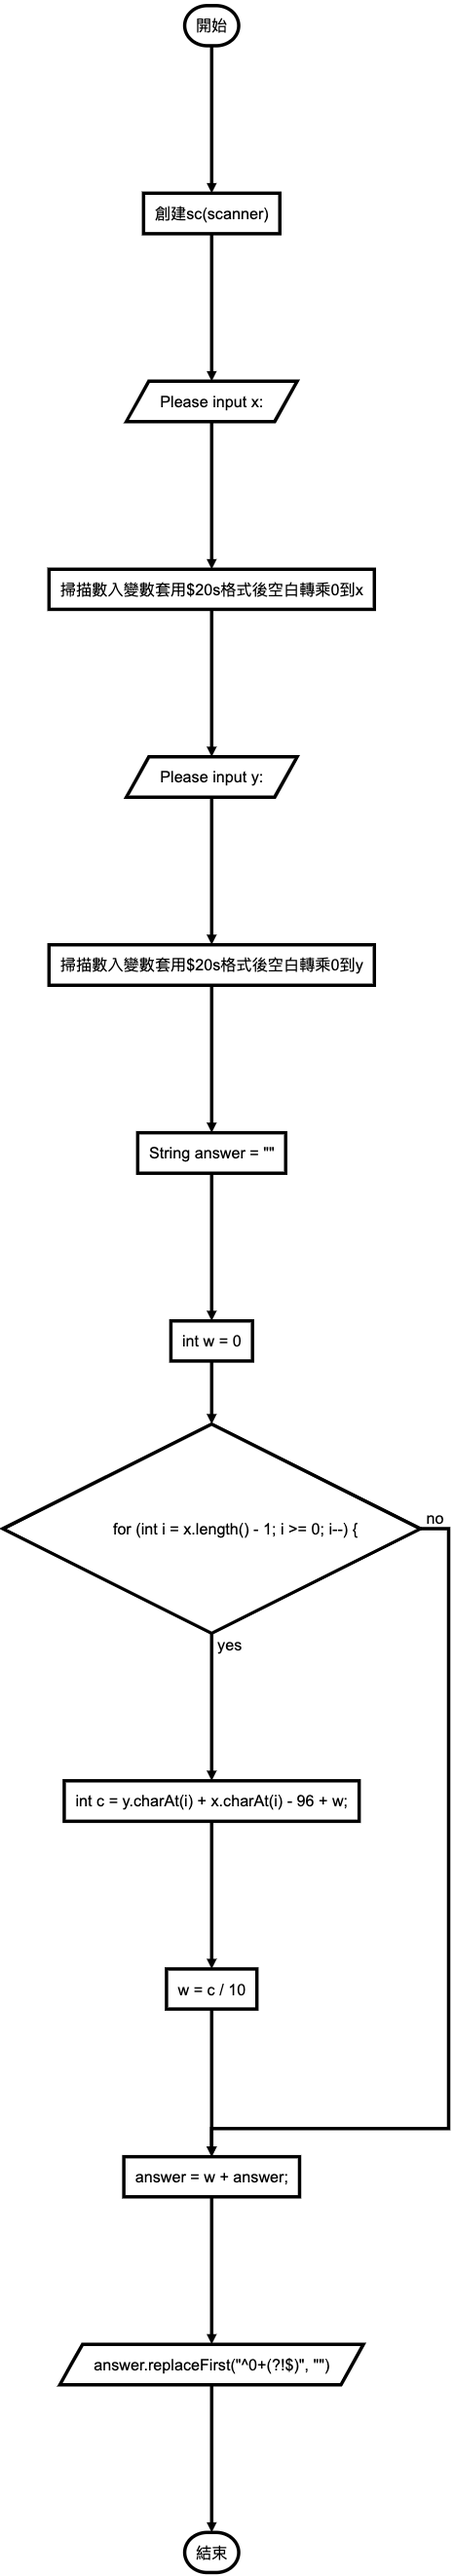
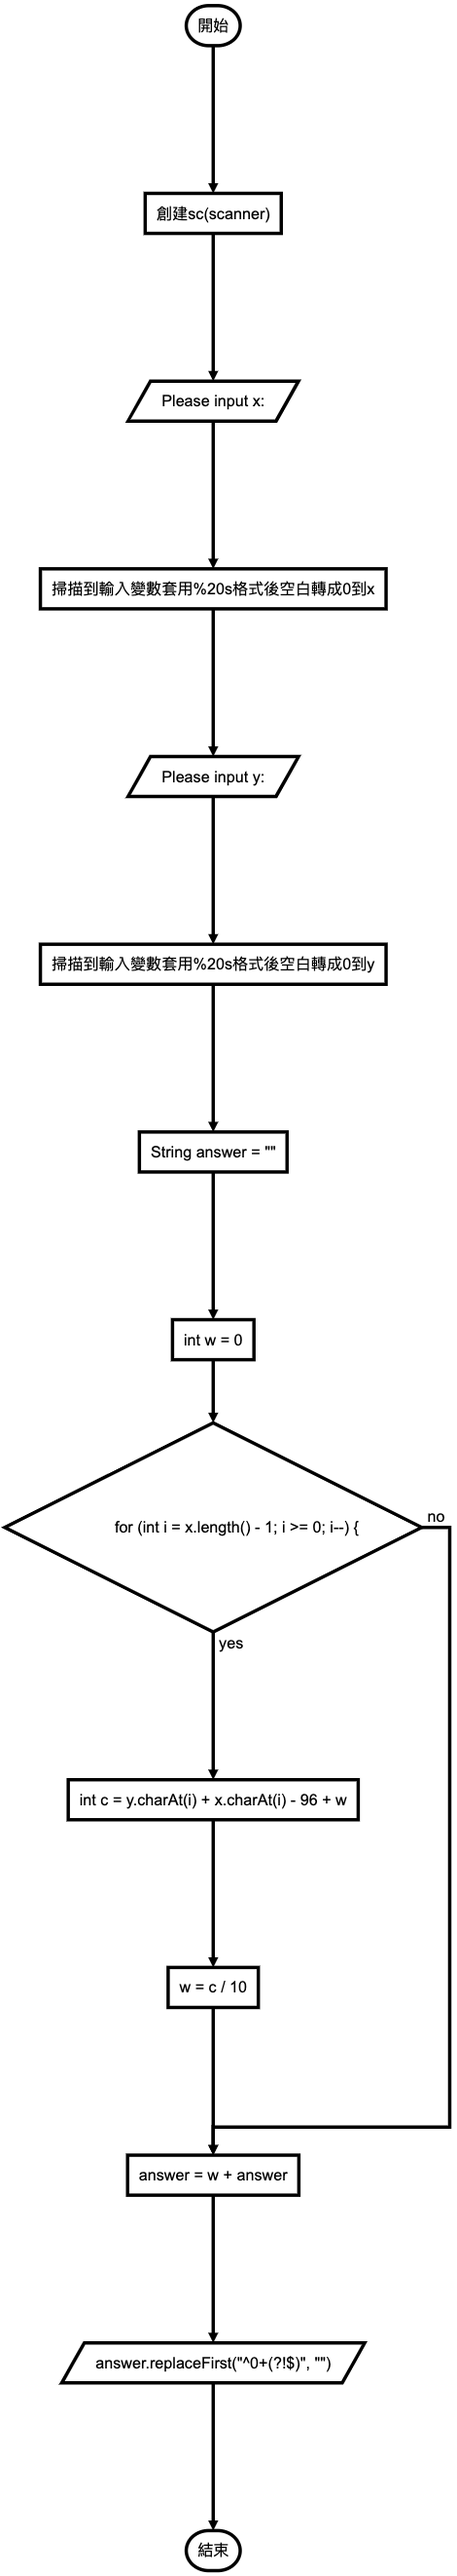
homework_8

diff --git a/school/java/homework_82.java b/school/java/homework_82.java
@@ -1,0 +1,37 @@
+/*
+filename:homework_8
+function:try catch finally
+
+author:taeyeonssudpate
+time:2020/12/21
+*/
+
+import java.util.Scanner;
+
+public class homework_82 {
+
+    public static void main(String[] args) {
+        Scanner sc = new Scanner(System.in);
+        int[] x = new int[3];
+        int[] y = new int[3];
+        System.out.println("數入x,y陣列值(3)");
+        for (int i = 0; i < 3; i++) {
+            System.out.printf("Please input x[%d]: ", i);
+            x[i] = sc.nextInt();
+            System.out.printf("Please input y[%d]: ", i);
+            y[i] = sc.nextInt();
+        }
+        System.out.println("執行四次(嘗試超出陣列範圍)");
+        for (int i = 0; i <= 3; i++) {
+            try {
+                System.out.printf("x[%d]/y[%d] = ", i, i);
+                System.out.printf("%d/%d = ", x[i], y[i]);
+                System.out.println(x[i] / y[i]);
+            } catch (ArrayIndexOutOfBoundsException e) {
+                System.out.println("超出陣列");
+            } catch (ArithmeticException e) {
+                System.out.println("除數不能為0");
+            }
+        }
+    }
+}

diff --git a/school/java/homework_81.java b/school/java/homework_81.java
@@ -1,0 +1,30 @@
+/*
+filename:homework_8
+function:try catch finally
+
+author:taeyeonssudpate
+time:2020/12/21
+*/
+
+import java.util.Scanner;
+
+public class homework_81 {
+
+    public static void main(String[] args) {
+        Scanner sc = new Scanner(System.in);
+        int[] x = { 10, 20, 30 };
+        int[] y = { 5, 10, 0 };
+        System.out.println("執行四次(嘗試超出陣列範圍)");
+        for (int i = 0; i <= 3; i++) {
+            try {
+                System.out.printf("x[%d]/y[%d] = ", i, i);
+                System.out.printf("%d/%d = ", x[i], y[i]);
+                System.out.println(x[i] / y[i]);
+            } catch (ArrayIndexOutOfBoundsException e) {
+                System.out.println("超出陣列");
+            } catch (ArithmeticException e) {
+                System.out.println("除數不能為0");
+            }
+        }
+    }
+}

diff --git a/school/java/homework_7.md b/school/java/homework_7.md
@@ -1,6 +1,6 @@
 # 我就爛 亂寫的 感覺就錯很多 #<br>
 ## 僅供參考 ##<br>
-資訊工程係  Java 程式設計  第六次作業<br>
+資訊工程係  Java 程式設計  第七次作業<br>
 班級：資工二乙 學號：B08170516   姓名：李知恩<br>
 
 題目：大數運算之加法運算<br>
@@ -16,16 +16,16 @@
 start=>start: 開始
 13=>operation: 創建sc(scanner)
 14=>inputoutput: Please input x:
-15=>operation: 掃描數入變數套用$20s格式後空白轉乘0到x
+15=>operation: 掃描到輸入變數套用%20s格式後空白轉成0到x
 16=>inputoutput: Please input y: 
-17=>operation: 掃描數入變數套用$20s格式後空白轉乘0到y
+17=>operation: 掃描到輸入變數套用%20s格式後空白轉成0到y
 18=>operation: String answer = ""
 19=>operation: int w = 0
 20=>condition: for (int i = x.length() - 1; i >= 0; i--) {
-21=>operation: int c = y.charAt(i) + x.charAt(i) - 96 + w;
+21=>operation: int c = y.charAt(i) + x.charAt(i) - 96 + w
 22=>operation: w = c / 10
-23=>operation: answer = (c % 10) + answer;
-25=>operation: answer = w + answer;
+23=>operation: answer = (c % 10) + answer
+25=>operation: answer = w + answer
 26=>inputoutput: answer.replaceFirst("^0+(?!$)", "")
 end=>end: 結束
 start->13->14->15->16->17->18->19->20(no)->25->26->end

diff --git a/school/java/homework_8.md b/school/java/homework_8.md
@@ -147,16 +147,3 @@ public class homework_82 {
     }
 }
 ```
-
----
----
----
----
-
-[第七次作業](https://github.com/taeyeonssupdate/zerojudge/blob/master/school/java/homework_7.md) <br>
-[第六次作業](https://github.com/taeyeonssupdate/zerojudge/blob/master/school/java/homework_6.md) <br>
-[第五次作業](https://github.com/taeyeonssupdate/zerojudge/blob/master/school/java/homework_5.md) <br>
-[第四次作業](https://github.com/taeyeonssupdate/zerojudge/blob/master/school/java/homework_4.md) <br>
-[第三次作業](https://github.com/taeyeonssupdate/zerojudge/blob/master/school/java/homework_3/homework_3.md) <br>
-[第二次作業](https://github.com/taeyeonssupdate/zerojudge/blob/master/school/java/homework_2.md) <br>
-[第一次作業](https://github.com/taeyeonssupdate/zerojudge/blob/master/school/java/homework_1.md) <br>
